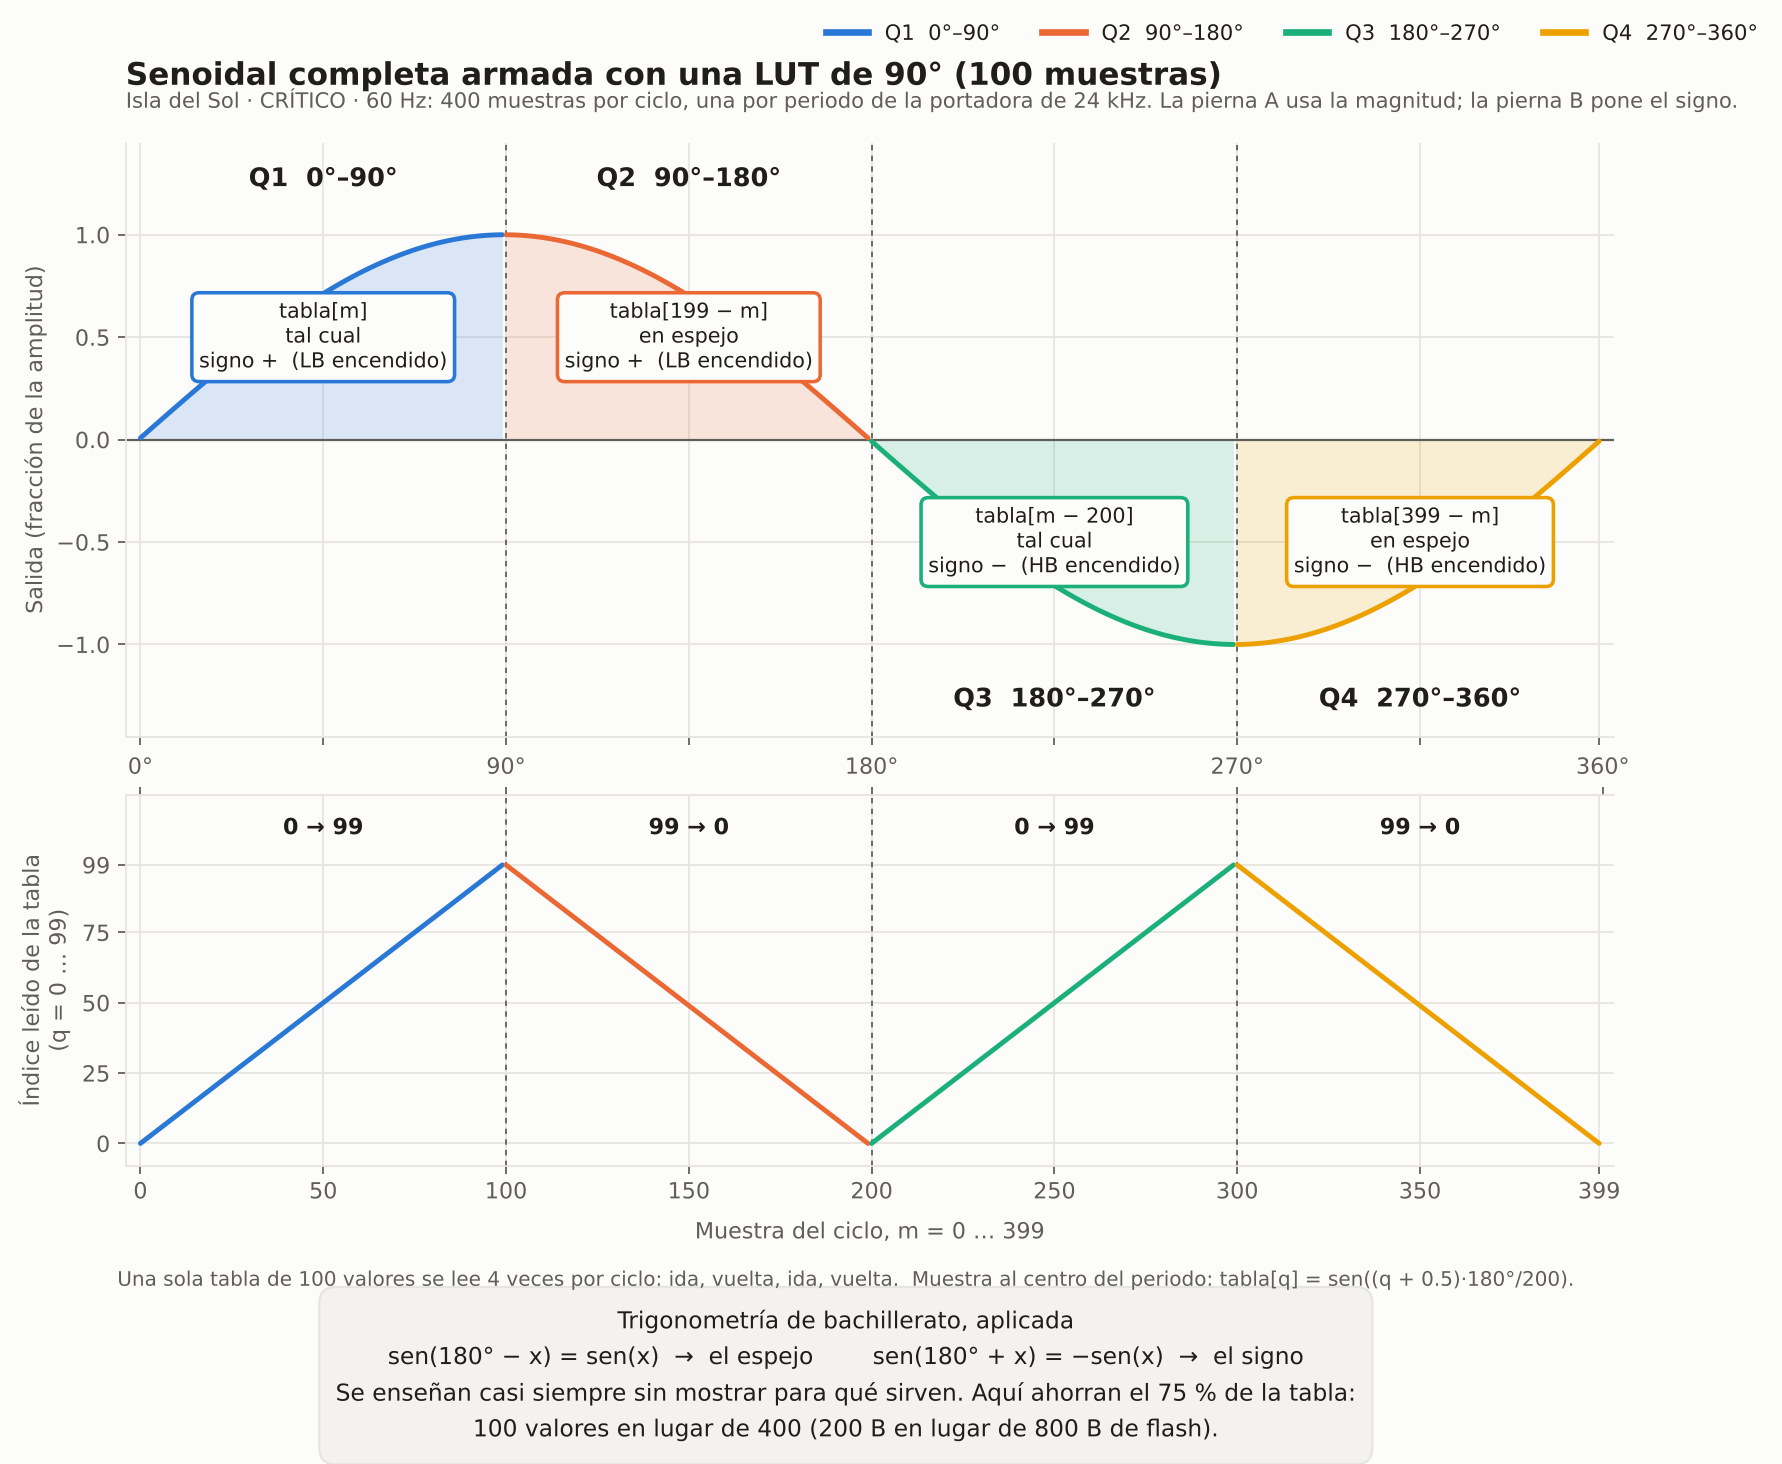
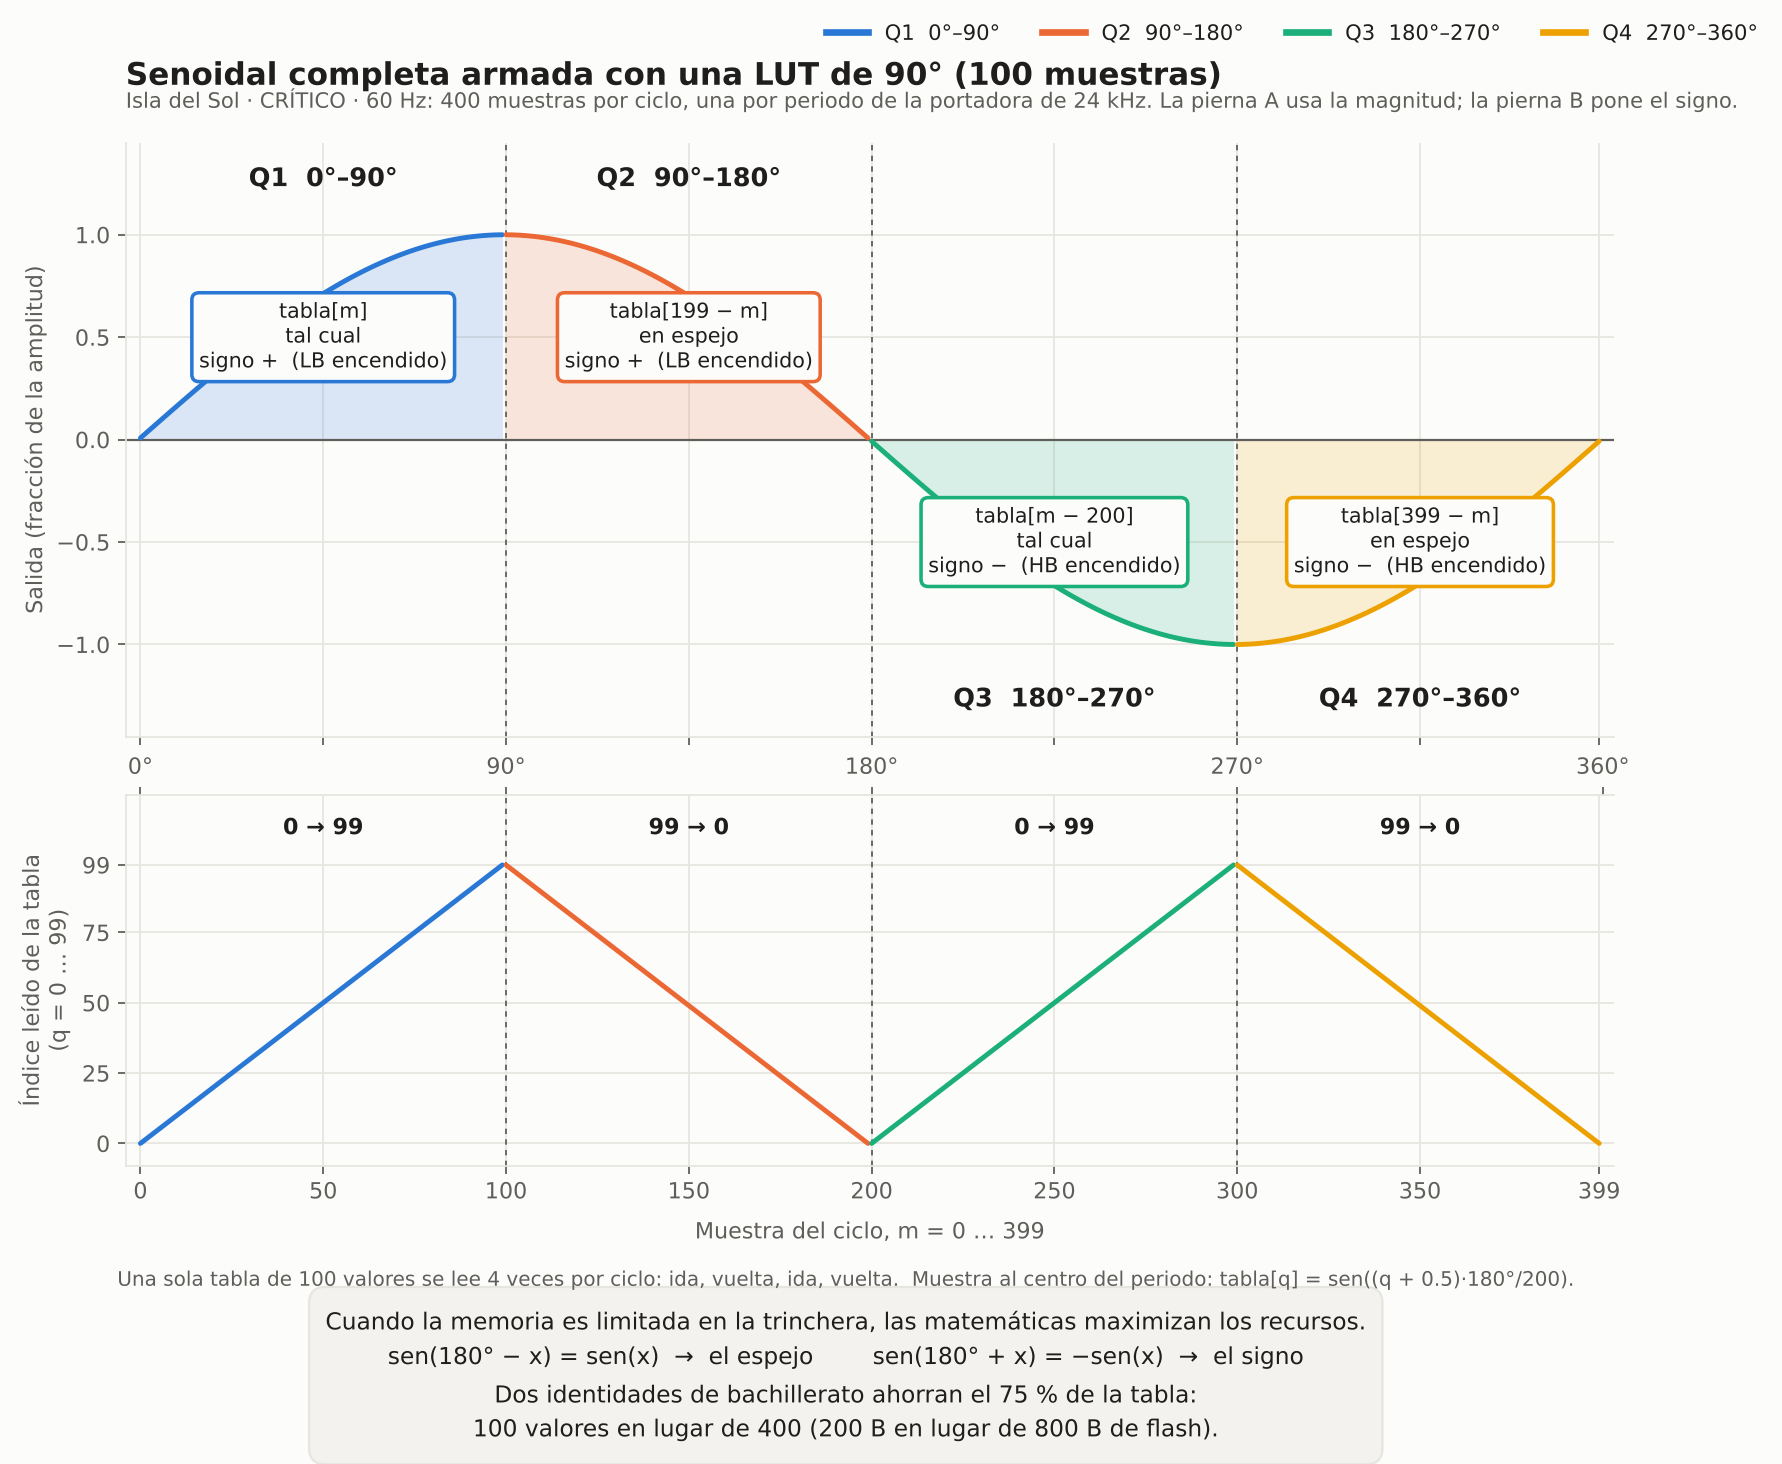
Firmware CRÍTICO: nota de la LUT con la frase del autor (las matemáticas maximizan los recursos en la trinchera)
Claude-Session: https://claude.ai/code/session_01QeVmKMzSdVA89kmdzuChhd

Changed region(s): [[0.1852, 0.8914, 0.7716, 0.9836]]

diff --git a/firmware/critico/herramientas/grafica_lut.py b/firmware/critico/herramientas/grafica_lut.py
@@ -61,9 +61,9 @@ a2.set_xlabel('Muestra del ciclo, m = 0 … 399', labelpad=8)
 a2.set_xlim(-4, 403); a2.set_xticks([0, 50, 100, 150, 200, 250, 300, 350, 399])
 sec = a2.secondary_xaxis('top', functions=(lambda x: x * 0.9, lambda d: d / 0.9))
 sec.set_xticks([0, 90, 180, 270, 360]); sec.set_xticklabels(['0°', '90°', '180°', '270°', '360°']); sec.tick_params(colors=INK2)
-fig.text(0.5, -0.115, 'Trigonometría de bachillerato, aplicada\n'
+fig.text(0.5, -0.115, 'Cuando la memoria es limitada en la trinchera, las matemáticas maximizan los recursos.\n'
          'sen(180° − x) = sen(x)  →  el espejo        sen(180° + x) = −sen(x)  →  el signo\n'
-         'Se enseñan casi siempre sin mostrar para qué sirven. Aquí ahorran el 75 % de la tabla:\n'
+         'Dos identidades de bachillerato ahorran el 75 % de la tabla:\n'
          '100 valores en lugar de 400 (200 B en lugar de 800 B de flash).',
          ha='center', va='bottom', fontsize=10.5, color=INK, linespacing=1.55,
          bbox=dict(boxstyle='round,pad=0.7', fc='#f3f2ee', ec=GRID, lw=1))

diff --git a/firmware/critico/README.md b/firmware/critico/README.md
@@ -104,7 +104,7 @@ Las constantes se calculan al compilar a partir de `F_CPU`. El reporte de arranq
 
   *Arriba, la salida del ciclo con un color por cuadrante y qué índice se lee en cada uno. Abajo, el índice de la tabla: ida, vuelta, ida, vuelta. Generado por `herramientas/grafica_lut.py`.*
 
-  > **Trigonometría de bachillerato, aplicada.** Las identidades **sen(180° − x) = sen(x)** (el espejo) y **sen(180° + x) = −sen(x)** (el signo) se enseñan en bachillerato, casi siempre sin mostrar para qué sirven. En este firmware **ahorran el 75 % de la tabla**: 100 valores en lugar de 400, es decir 200 B en lugar de 800 B de flash.
+  > **Cuando la memoria es limitada en la trinchera, las matemáticas maximizan los recursos.** Dos identidades de bachillerato, **sen(180° − x) = sen(x)** (el espejo) y **sen(180° + x) = −sen(x)** (el signo), **ahorran el 75 % de la tabla**: 100 valores en lugar de 400, es decir 200 B en lugar de 800 B de flash.
 
 - **Cada muestra se toma al centro de su periodo:** sen((k + 0.5) · 180° / 200), no sen(k · 180° / 200). Así la muestra k y la 199 − k valen lo mismo y el espejo sale exacto. En el borde, el pico queda sin pareja, la onda sale asimétrica y aparece componente par.
 - **Doble pendiente** (*phase-correct* / *dual-slope*). Los pulsos quedan centrados en el periodo. Con el lado bajo invertido y su comparador DT cuentas más arriba (`OCR1B = OCR1A + DT`), se abre el tiempo muerto **en cada flanco** con el mismo timer.
